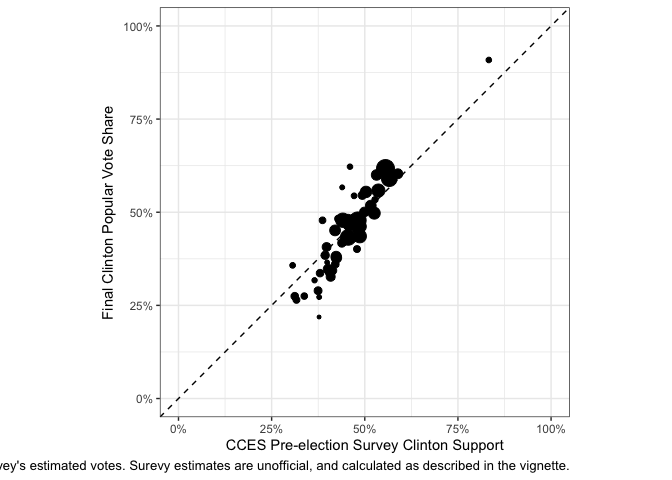
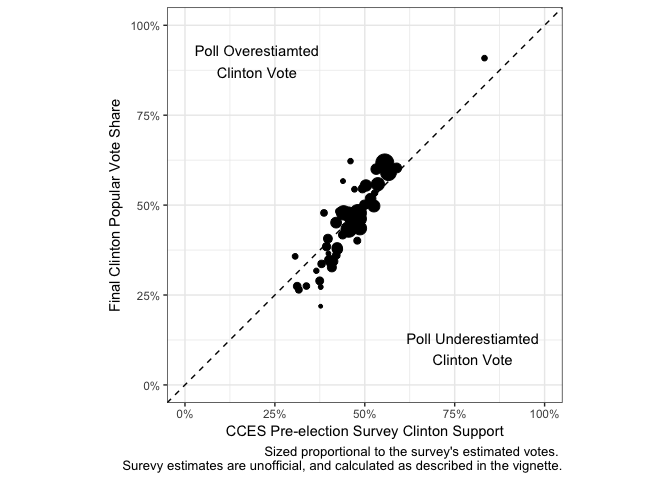
after correcting rho

diff --git a/README.md b/README.md
@@ -143,10 +143,15 @@ gg0 <- ggplot(df, aes(x = cces_pct_hrc_voters, y = pct_hrc_voters, size = cces_n
   guides(size = FALSE) +
   coord_equal() +
   theme_bw() +
+  annotate("text", x = 0.8, y = 0.1, label = "Poll Underestiamted\nClinton Vote") +
+  annotate("text", x = 0.2, y = 0.9, label = "Poll Overestiamted\nClinton Vote") +
   labs(x = "CCES Pre-election Survey Clinton Support",
        y = "Final Clinton Popular Vote Share",
-       caption = "Sized proportional to the survey's estimated votes. Surevy estimates are unofficial, and calculated as described in the vignette.")
+       caption = "Sized proportional to the survey's estimated votes. \nSurevy estimates are unofficial, and calculated as described in the vignette.")
+gg0
 ```
+
+![](README_files/figure-markdown_github-ascii_identifiers/unnamed-chunk-3-1.png)
 
 As points
 
@@ -157,13 +162,15 @@ gg0 + geom_point()
 ![](README_files/figure-markdown_github-ascii_identifiers/unnamed-chunk-4-1.png)
 
 ``` r
-gg0 + geom_point(size = 1) +  geom_label_repel(aes(label = st), segment.alpha = 0.5)
+gg0 + geom_point(size = 1) +  geom_text_repel(aes(label = st), segment.alpha = 0.5)
 ```
 
 ![](README_files/figure-markdown_github-ascii_identifiers/unnamed-chunk-5-1.png)
 
-Estimates of rho
+Estimates of *ρ*
 ================
+
+We use this function for the columns `rho_*`. Input is defined in terms of its sampling target (actual votes vs. vep). We use the CCES estimates for now.
 
 ``` r
 rho_estimate <- function(data = df, N, mu, muhat, n) {
@@ -181,11 +188,11 @@ rho_estimate <- function(data = df, N, mu, muhat, n) {
   s2hat <- mu * (1 - mu)
   
   ## estimate of rho
-  one_over_sqrtN * abs(diff_mu) / sqrt((one_minus_f / n) * s2hat)
+  one_over_sqrtN * diff_mu / sqrt((one_minus_f / n) * s2hat)
 }
 ```
 
-Distribution
+Distribution of $\\hat{\\rho}$:
 
 ``` r
 ggplot(df, aes(x = rho_voter)) + geom_histogram() + theme_bw()
@@ -203,12 +210,13 @@ ggplot(df, aes(x = rho_vep)) + geom_histogram() + theme_bw()
 
 ![](README_files/figure-markdown_github-ascii_identifiers/unnamed-chunk-8-1.png)
 
-Correlates
+Correlates of $\\hat{\\rho}$:
 
 ``` r
-gg_rho_voter <-  ggplot(df, aes(x = log(tot_votes), y = log(rho_voter))) +
+gg_rho_voter <-  ggplot(df, aes(x = log(tot_votes), y = log(rho_voter + 1), label = st)) +
   theme_bw() +
   geom_point() +
+  geom_text_repel() +
   geom_smooth(method = "lm", se = FALSE, color = "gray")
 gg_rho_voter
 ```
@@ -216,56 +224,52 @@ gg_rho_voter
 ![](README_files/figure-markdown_github-ascii_identifiers/unnamed-chunk-9-1.png)
 
 ``` r
-summary(lm(log(rho_voter) ~ log(tot_votes), df))
+summary(lm(log(rho_voter + 1) ~ log(tot_votes), df))
 ```
 
     ## 
     ## Call:
-    ## lm(formula = log(rho_voter) ~ log(tot_votes), data = df)
+    ## lm(formula = log(rho_voter + 1) ~ log(tot_votes), data = df)
     ## 
     ## Residuals:
-    ##     Min      1Q  Median      3Q     Max 
-    ## -2.7377 -0.5154  0.2908  0.6758  1.5932 
+    ##        Min         1Q     Median         3Q        Max 
+    ## -0.0060963 -0.0012966 -0.0000039  0.0016878  0.0061823 
     ## 
     ## Coefficients:
-    ##                Estimate Std. Error t value Pr(>|t|)   
-    ## (Intercept)     -0.3806     1.9875  -0.192  0.84892   
-    ## log(tot_votes)  -0.4433     0.1384  -3.204  0.00239 **
-    ## ---
-    ## Signif. codes:  0 '***' 0.001 '**' 0.01 '*' 0.05 '.' 0.1 ' ' 1
+    ##                  Estimate Std. Error t value Pr(>|t|)
+    ## (Intercept)     4.689e-04  4.723e-03   0.099    0.921
+    ## log(tot_votes) -2.171e-05  3.289e-04  -0.066    0.948
     ## 
-    ## Residual standard error: 1.006 on 49 degrees of freedom
-    ## Multiple R-squared:  0.1732, Adjusted R-squared:  0.1563 
-    ## F-statistic: 10.26 on 1 and 49 DF,  p-value: 0.002388
+    ## Residual standard error: 0.00239 on 49 degrees of freedom
+    ## Multiple R-squared:  8.891e-05,  Adjusted R-squared:  -0.02032 
+    ## F-statistic: 0.004357 on 1 and 49 DF,  p-value: 0.9476
 
 ``` r
-gg_rho_voter + aes(x = log(vep), y = log(rho_vep))
+gg_rho_voter + aes(x = log(vep), y = log(rho_vep + 1))
 ```
 
 ![](README_files/figure-markdown_github-ascii_identifiers/unnamed-chunk-11-1.png)
 
 ``` r
-summary(lm(log(rho_vep) ~ log(vep), df))
+summary(lm(log(rho_vep + 1) ~ log(vep), df))
 ```
 
     ## 
     ## Call:
-    ## lm(formula = log(rho_vep) ~ log(vep), data = df)
+    ## lm(formula = log(rho_vep + 1) ~ log(vep), data = df)
     ## 
     ## Residuals:
-    ##     Min      1Q  Median      3Q     Max 
-    ## -2.4279 -0.1386  0.1314  0.3068  0.8911 
+    ##        Min         1Q     Median         3Q        Max 
+    ## -0.0047394 -0.0010135  0.0001729  0.0013640  0.0044762 
     ## 
     ## Coefficients:
-    ##             Estimate Std. Error t value Pr(>|t|)    
-    ## (Intercept) -6.92504    1.12693  -6.145  1.4e-07 ***
-    ## log(vep)     0.10701    0.07582   1.411    0.164    
-    ## ---
-    ## Signif. codes:  0 '***' 0.001 '**' 0.01 '*' 0.05 '.' 0.1 ' ' 1
+    ##              Estimate Std. Error t value Pr(>|t|)
+    ## (Intercept) 0.0035648  0.0037927   0.940    0.352
+    ## log(vep)    0.0001165  0.0002552   0.456    0.650
     ## 
-    ## Residual standard error: 0.5457 on 49 degrees of freedom
-    ## Multiple R-squared:  0.03907,    Adjusted R-squared:  0.01946 
-    ## F-statistic: 1.992 on 1 and 49 DF,  p-value: 0.1644
+    ## Residual standard error: 0.001837 on 49 degrees of freedom
+    ## Multiple R-squared:  0.004235,   Adjusted R-squared:  -0.01609 
+    ## F-statistic: 0.2084 on 1 and 49 DF,  p-value: 0.6501
 
 References
 ==========
